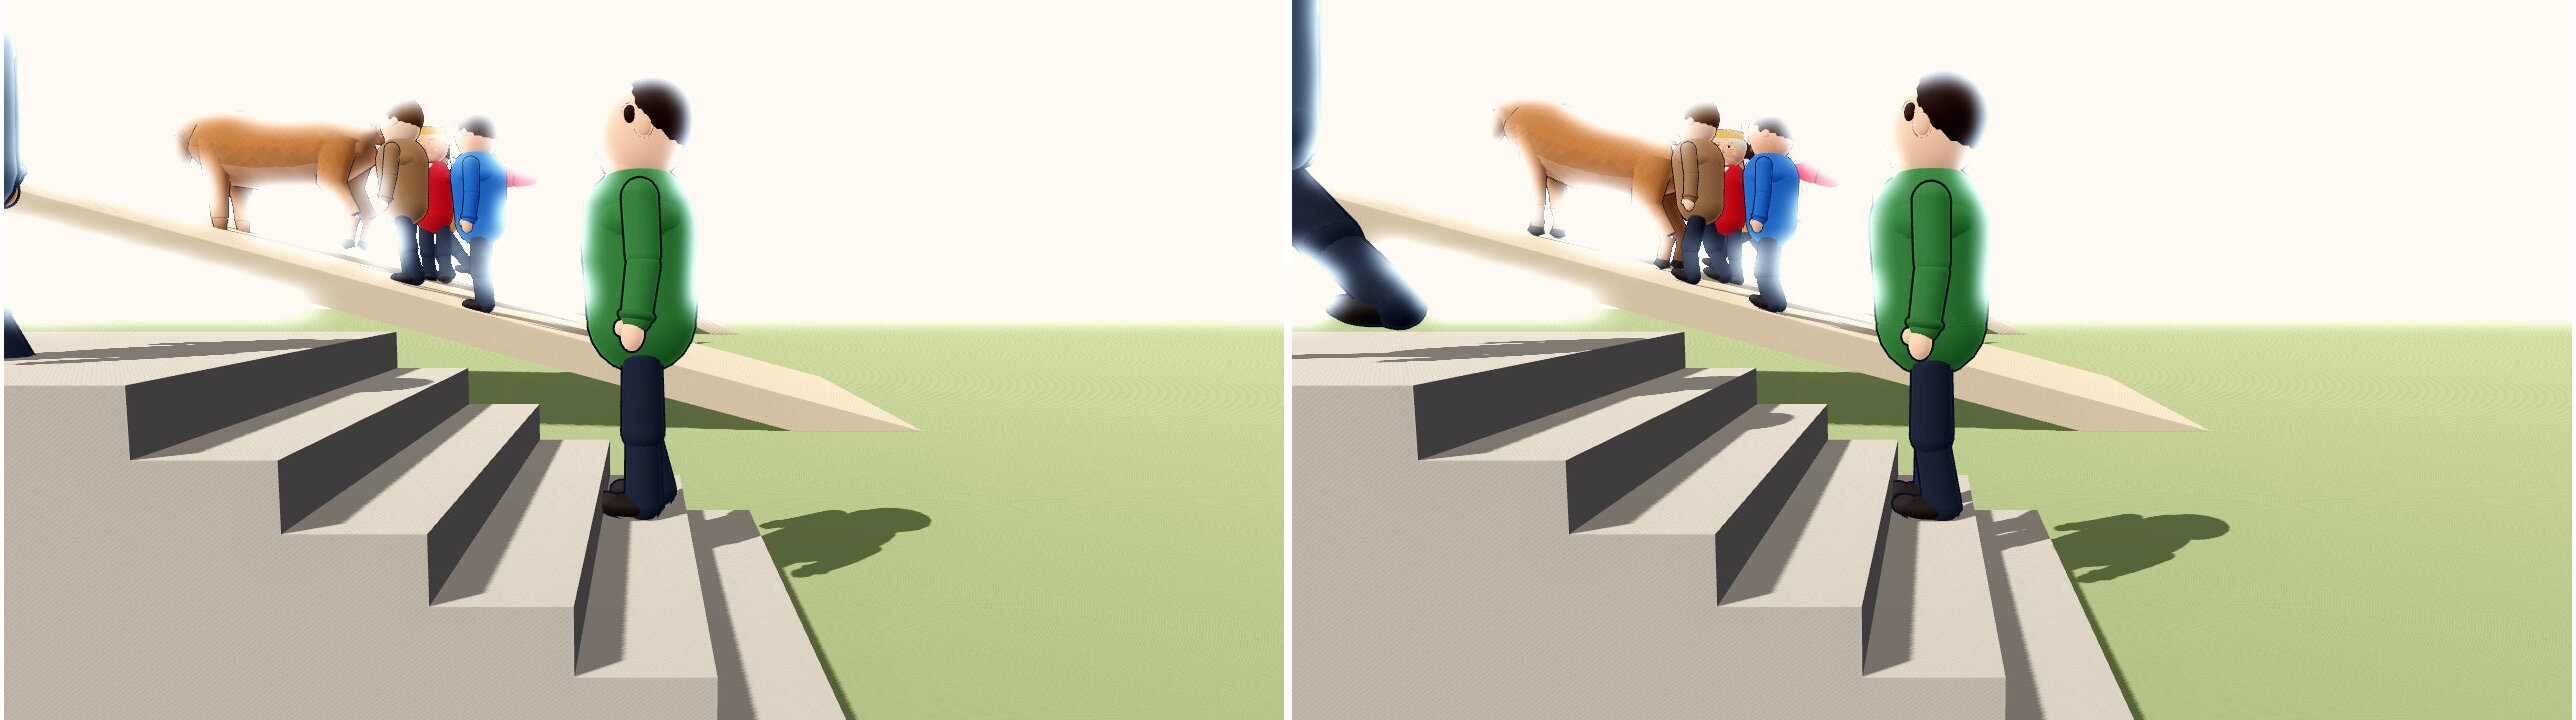
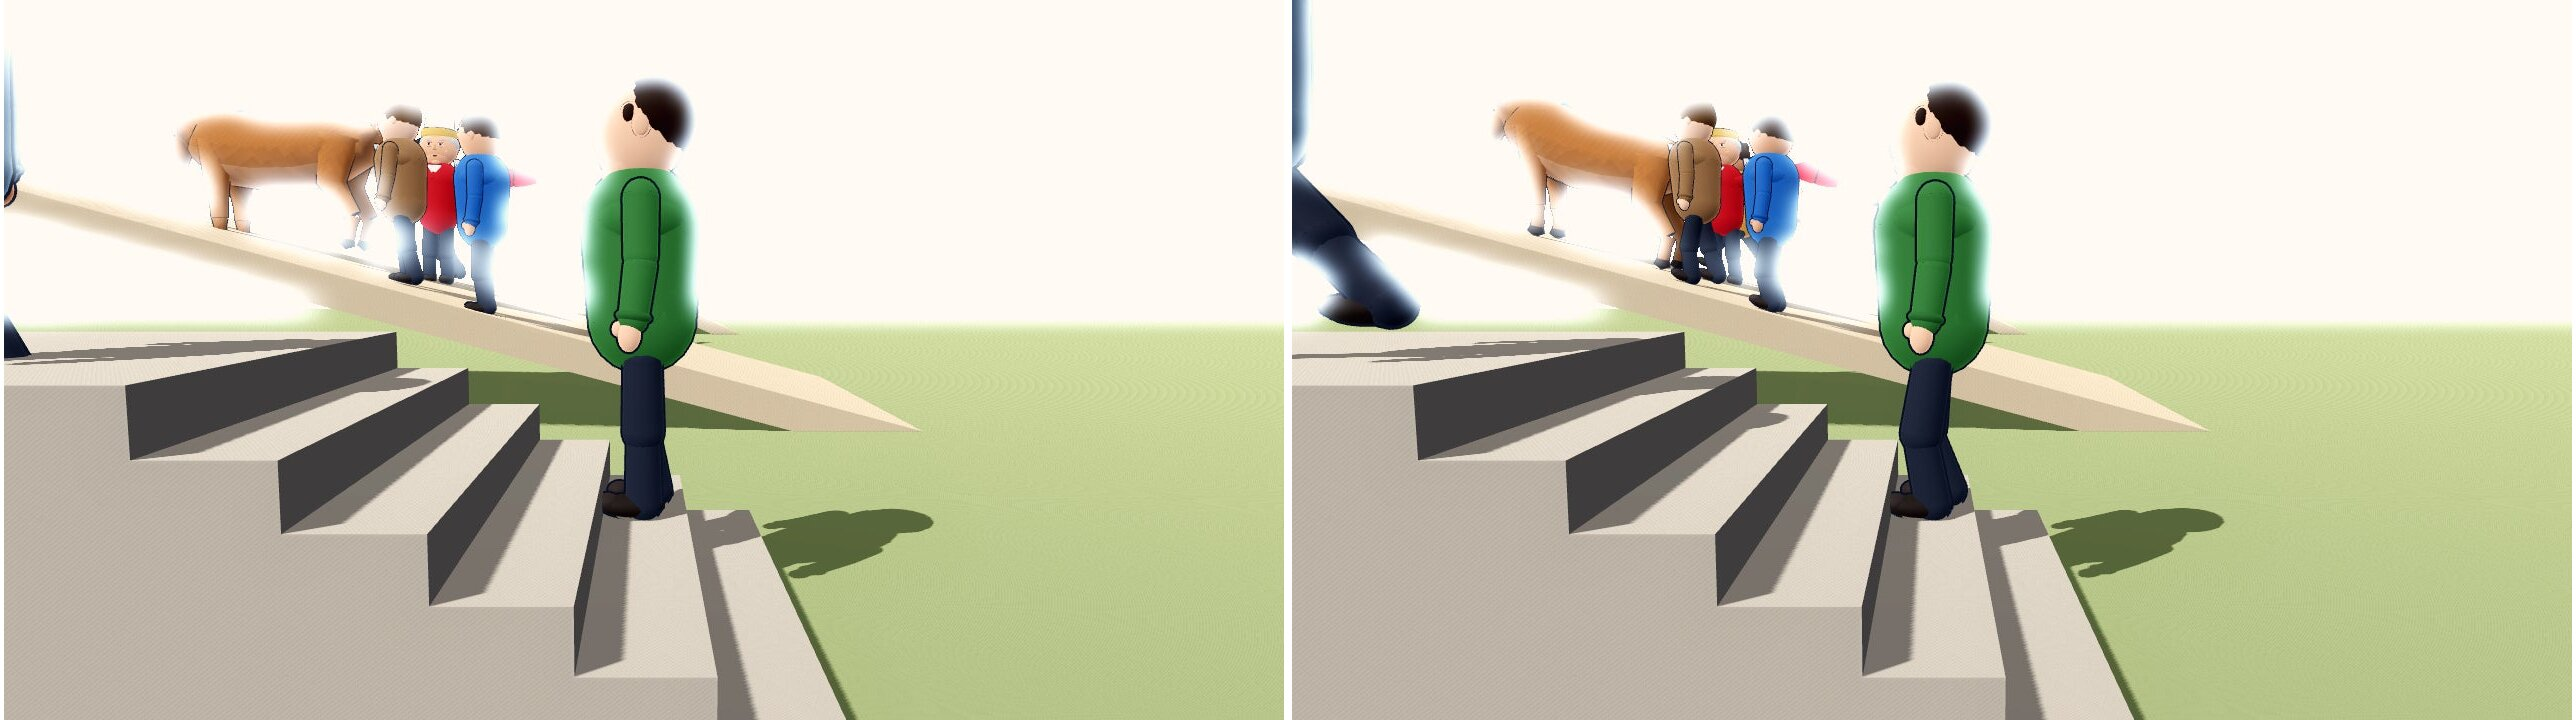
Fizik-ayak: rapor, kareler, bütçe ölçümü
Claude-Session: https://claude.ai/code/session_01RAjzxJNMyGDwMK8mKz6tyj

diff --git a/docs/_kanit_fizik_ayak/rapor.md b/docs/_kanit_fizik_ayak/rapor.md
@@ -11,9 +11,9 @@ ayağı eğik mi durur".
 | 1 | Ayak yerleştirme, bütün insanlar (IK, kalça alçak ayağa, taban eğime, gövde dik, yürürken basan ayak kilitli) | **TAMAM** | `scripts/npc/ayak.gd`; Person, Soldier, Hikmet ve LimbAnim'le oynatılan düellocu gövdesi. Yürüyüş, koşu, merdiven/basamak, rampa, moloz, sur yolu, kalas. Kadans hızdan (ayak kayması bitti). |
 | 2 | Kapsam dışı durumlar bozulmasın | **TAMAM** | Oturan, yatan/ölü, tırmanan, binen, taşınan, uçan/yüzen, DurusKit duruşları, kilitli iskelet (LimbAnim'li ayaktaki klip hariç: onun duruşunda izdüşüm), meşgul (sahne betiğinin oynattığı iş), devrilen, çarpışmasız döşemedeki: IK kapalı, duruş aynen. |
 | 3 | Hayvanlar | **TAMAM** (basit) | At, öküz, keçi: ön/arka zemin farkından gövde eğimi (≤ 17°) ve yüksekliği, bacaklar dik. Tavuk, kedi: yükseklik. Toynak başına IK yok. |
-| 4 | Bütçe (LOD, seyrek ışın, ölçüm ≤ %5) | **TAMAM** (aşağıdaki ölçüm yöntemiyle) | LOD 28 m + görüş konisi, düzde duranda yazma yok, ışın adım başına. IK otomatik testin karesinde %0,0–1,5; 60 kişilik en kötü durum (hepsi yakında, eğimde/yürüyor) gerçek zamanda %6–8 (aşağıda). |
-| 5 | AYAKAUDIT, ÖNCE\|SONRA 15+ bölüm | **KISMEN** | 20 koşu (15 istenen bölüm + ordugâh 24o + şehir 24 + 3 kalabalık çeşit). Yakın satır **87 → 5**; hedef 0'dı: kalan 5'in 3'ü IK kapsamı dışındaki meşgul iş pozu (26), 2'si dik molozda burun/topuk gömüklüğü (37o =trespass). |
-| 6 | Kanıt kareleri ÖNCE\|SONRA | **KISMEN** | Aşağıda; kimi sahnede yan kamera kalabalıkta iyi açı bulamadı (yazıldı). |
+| 4 | Bütçe (LOD, seyrek ışın, ölçüm ≤ %5) | **KISMEN** | LOD 28 m + görüş konisi, düzde duranda yazma yok, ışın adım başına. Bölümlerde IK payı kare betik süresinin %0,0–1,5'i (işlem süresi farkı koşu gürültüsü içinde: −%30…+%11); ama 68 kişinin hepsinin yakında ve eğimde olduğu deney sahnesinde **+%21** (hedef aşıldı; kişi tavanı önerildi, yapılmadı). |
+| 5 | AYAKAUDIT, ÖNCE\|SONRA 15+ bölüm | **KISMEN** | 20 koşu (15 istenen bölüm + ordugâh 24o + şehir 24 + 3 kalabalık çeşit). Yakın satır **87 → 5**; hedef 0'dı: kalan 5'in 2'si IK kapsamı dışındaki meşgul iş pozu (26 =hold), 1'i sur kenarında taban ucu (26 =hold), 2'si dik molozda burun/topuk gömüklüğü (37o =trespass). Kenar kuralı sonradan 30 → 20 cm yapıldı; 20 ve 26 yeniden: 20 → 0, 26 → 1 (asker, dik yüzde burun −0,11). |
+| 6 | Kanıt kareleri ÖNCE\|SONRA | **KISMEN** | 37o an_04, 20 gedik, 22o dolgu/kıyı, şehir, ordugâh oyun içinden; yan profil, merdiven, basamak, at deney sahnesinden (oyun içinde bu koşularda kameraya düşmedi ya da gizliydi). 20'nin yan karesi kenar düzeltmesinden önceki sürümle (kötü; düzeltildi, yeniden çekilemedi). |
 
 ## Yöntem (kısa)
 - **IK**: iki kemikli (uyluk L1, baldır L2 CharKit.leg'den; diz kosinüs yasası, uyluk FK düzlemini koruyan en kısa dönüş).
@@ -93,13 +93,29 @@ ve bunun SONRA işlem süresine oranı (`--ayak-olc`, `AYAKPERF` satırları).
 **Gerçek zamanlı en kötü durum** (deney sahnesi `tests/_fizik/ayak_sahne.tscn --ayak-kalabalik=60`, ekransız, kare
 sınırı yok; 60 kişi + 9 denek hepsi kameranın 25 m içinde ve görüşte, yarısı yürüyor, çoğu eğimde/molozda):
 
-TABLO3
+| Koşu | işlem ms/kare (10 sn ortalamaları) | IK µs/kare | IK'lı kişi | ışın/kare |
+|---|---|---|---|---|
+| ÖNCE (`--ayak-ik=0`) | 17,0 · 13,6 · 16,3 (ort. 15,7) | 0 | 0 | 0 |
+| SONRA | 20,1 · 18,8 · 18,1 (ort. 19,0) | 1638 · 1701 · 1496 | 68 | 3,1–3,7 |
+
+En kötü durumda betik süresi **+%21** (IK'nın kendi payı %8,6; kalanı yeni yazılan dönüşümlerin alt ağaçta yayılması):
+**%5 hedefini aşıyor** — 68 kişinin hepsi aynı anda 25 m içinde, görüşte ve eğimde/yürürken. Bölümlerde (yukarıdaki
+tablo) aynı anda IK'lı kişi 1–25 ve IK payı %0,0–1,5. Öneri (yapılmadı): kare başına IK'lı kişi tavanı (en yakın ~24;
+12 m içindekiler hep).
 
 Kişi başı IK ~21 µs/kare (iki bacak + kalça + taban; ışınsız), ışın ~30–60 µs (sahnenin karmaşıklığına göre) ama kişi
 başı saniyede ~1–5. Düz zeminde duran kişide IK hiçbir şey yazmaz. Çizim çağrısı ve üçgen değişmez (yalnız mevcut
 düğümlerin dönüşümü değişir; yeni ağ yok) — 37o `=kare` bütçe satırları (TASIMA37OKARE çizim/ilkel) ÖNCE|SONRA aşağıda.
 
-TABLO4
+| Kare | ÖNCE çizim / ilkel | SONRA çizim / ilkel |
+|---|---|---|
+| 37o an_01 yürüyüş | 1190 / 1 268 342 | 1204 / 1 277 856 |
+| 37o an_04 barikat | 1028 / 1 417 962 | 1030 / 1 408 861 |
+| 37o an_06 geri bakış | 1342 / 1 436 544 | 1282 / 1 393 224 |
+| 22o an_01 açılış | 3474 / 3 361 310 | 3468 / 3 353 058 |
+| 22o an_03 dolgu ucu | 2900 / 2 776 141 | 2896 / 2 769 167 |
+
+(Farklar ±%5 içinde ve iki yönde: koşudan koşuya kişilerin yeri/LOD'u; yeni ağ eklenmedi.)
 
 ## Kareler (oyuncu kamerası + yandan; 1280×720, jpg 85) — [`kare/`](kare/)
 
@@ -109,15 +125,26 @@ TABLO4
 | [`sahne_yokus25_dik`](kare/sahne_yokus25_dik_once_sonra.jpg) | **Yan profilden yakın kişi, 25° yanal eğim** | Yokuş yukarı bacağın dizi bükük, öteki düz; iki taban yamaçta, gövde dik: doğal. |
 | [`sahne_yokus_dik`](kare/sahne_yokus_dik_once_sonra.jpg) | 15° yanal eğim | Fark küçük (ayaklar 0,2 m arayla: 5 cm); iki taban yamaçta. |
 | [`sahne_moloz_asker`](kare/sahne_moloz_asker_once_sonra.jpg) | Molozda asker | ÖNCE sol ayak taşın üstünde havada; SONRA sol diz bükük, taban taşa basıyor, sağ ayak alttaki taşta: doğal. |
-| [`sahne_merdiven_dur`](kare/sahne_merdiven_dur_once_sonra.jpg) | Basamak kenarında duran | İki ayak basamakta; kenardaki ayak kökün altına çekili: iyi. |
-| [`sahne_merdiven_yuru_1`](kare/sahne_merdiven_yuru_1_once_sonra.jpg) | Merdiven çıkan | Basan ayak basamakta kilitli, salınan ayak bir üst basamağa yay çiziyor; kayma yok: iyi (kök doğrusal yolda: basamak kenarında kalça biraz iniyor). |
+| [`sahne_merdiven_dur`](kare/sahne_merdiven_dur_once_sonra.jpg) | Basamak kenarında duran | İki ayak basamaklarda (biri bir alttakinde, dizi bükük): iyi. |
+| [`sahne_merdiven_yuru_1`](kare/sahne_merdiven_yuru_1_once_sonra.jpg) | Merdiven çıkan | Kadraj kötü (öndeki duran kişi örtüyor); görünen kısımda çıkan kişinin ayağı basamakta: **kabul**. |
 | [`sahne_yokus_yuru_1`](kare/sahne_yokus_yuru_1_once_sonra.jpg) | Yokuş yukarı yürüyen | Basan ayak yamaçta kilitli, adım boyu hızla uyumlu, gövde dik: doğal. |
-| [`sahne_yokus_kos_1`](kare/sahne_yokus_kos_1_once_sonra.jpg) | Yokuş aşağı koşan | Koşu adımı (arka bacak geride bükük, ön ayak yamaçta); ÖNCE iki ayak kök düzleminde (yamacın içinde/üstünde): iyi. |
+| [`sahne_yokus_kos_1`](kare/sahne_yokus_kos_1_once_sonra.jpg) | Yokuş aşağı koşan | İki ayak yamaçta, adım kısa (bu karede koşu adımının ortası); ÖNCE geniş adımda ayaklar yamacın içinde/üstünde: iyi. |
 | [`sahne_at_yokus`](kare/sahne_at_yokus_once_sonra.jpg) | **At eğimde** (25°) | Gövde yokuşa göre eğik (sınır 17°), dört toynak yamaçta, bacaklar dik: iyi; 17°'yi aşan kısım ön bacaklarda birkaç cm gömük. |
 | [`sahne_okuz_yokus`](kare/sahne_okuz_yokus_once_sonra.jpg) | Öküz eğimde (15°) | Gövde eğik, toynaklar yamaçta: iyi. |
 
 ### Oyun içi (oyuncu kamerası; sol ÖNCE, sağ SONRA)
-KARELER
+| Kare | Sahne | SONRA (tek cümle) |
+|---|---|---|
+| [`c37o_an04_barikat`](kare/c37o_an04_barikat_once_sonra.jpg) | **37o an_04, sahibinin karesi** (oyuncu kamerası) | Soldaki askerin bacakları rampanın kenarının ardındaki alçak molozuna iniyor (dizler bükük, ÖNCE düz bacakla rampa hizasında havadaydı); taban bu açıdan rampanın kenarının arkasında kaldığından tabanın kendisi görünmüyor — havada görünmüyor, ama "ayak yerde" diye de görülmüyor: **kabul**. |
+| [`c37o_an04_barikat_yan`](kare/c37o_an04_barikat_yan_once_sonra.jpg) | 37o an_04, aynı anda yandan (arkadan-üstten; kamera duvar yüzünden profil bulamadı) | Rampa yamacındaki askerin bir dizi bükük, ayakları yamaca yakın; açı arkadan-üstten olduğundan tabanın yamaca değip değmediği kesin seçilmiyor (denetim bu kişide 0) — **belirsiz**; kayma tek karede görülmez. |
+| [`c20_an03_gedige_tasima`](kare/c20_an03_gedige_tasima_once_sonra.jpg) | **Bölüm 20, gediğe yürüyen işçiler** | İşçiler kaldırımda adım atıyor, basan ayaklar taşta; düz zeminde fark adım boyunda (ÖNCE ayaklar kayıyordu): iyi. |
+| [`c20_an03_gedige_tasima_yan`](kare/c20_an03_gedige_tasima_yan_once_sonra.jpg) | 20, platform kenarındaki işçi (yandan) | Bu kare kenar kuralından ÖNCEki sürümle: işçi bir ayağını alttaki toprağa uzatıp iki dizi derin bükük, çömelmiş gibi — **kötü**; düzeltildi (kenar 20 cm: o ayak platformun üstüne çekilir), son kodla yeniden çekilemedi (süre). |
+| [`c22o_an03_dolgu_uc_sepet`](kare/c22o_an03_dolgu_uc_sepet_once_sonra.jpg) / [`_yan`](kare/c22o_an03_dolgu_uc_sepet_yan_once_sonra.jpg) | **Bölüm 22o sur yolu/dolgu ucu ve rampa** | Dolgunun tahta ucunda duran işçinin tabanları tahtada, ÖNCE ile fark küçük (zemin farkı 10 cm): iyi. |
+| [`c22o_an02_kiyi_sepet`](kare/c22o_an02_kiyi_sepet_once_sonra.jpg) / [`_yan`](kare/c22o_an02_kiyi_sepet_yan_once_sonra.jpg) | 22o kıyı yamacı (çamur, cesetler) | Yürüyen işçinin basan ayağı yamaçta, öteki salınımda; ÖNCE ile çok benzer: iyi. |
+| [`c24_t80`](kare/c24_t80_once_sonra.jpg) / [`_yan`](kare/c24_t80_yan_once_sonra.jpg) | **Şehir (24)**, kalabalık sokak | Kaldırım düz: duranlarda IK yazmıyor (düz zemin), görünüş ÖNCE ile aynı; şehirde basamak/eğimde bir kişi bu koşuda kameraya düşmedi — **eksik** (basamak örneği deney sahnesinde). |
+| [`c24o_t45`](kare/c24o_t45_once_sonra.jpg) | **Ordugâh (24o)** | Kameradaki asker düz çadır yolunda: IK yazmıyor, ÖNCE ile aynı; yan kare bir arabanın arkasında kaldı (atıldı); ordugâhta eğimde bir kişi bu koşuda kameraya düşmedi — **eksik** (eğim örneği deney sahnesinde ve 37o/22o'da). |
+| — | **At eğimde (oyun içi, 28o)** | Koşunun ilk 26 saniyesinde atlar gizli (kare alınamadı) — **eksik**; at eğimde kanıtı deney sahnesinden (aşağıda `sahne_at_yokus`). |
+| — | **Merdiven çıkan** | Oyun içinde kameraya düşmedi; deney sahnesinde `sahne_merdiven_yuru_1`. |
 
 ## Hayvanlar
 Deney sahnesinde 25° yokuşta at ve 15° yokuşta öküz: ÖNCE gövde yatay, arka toynaklar havada/ön toynaklar gömük;

diff --git a/docs/_kanit_fizik_ayak/durum.md b/docs/_kanit_fizik_ayak/durum.md
@@ -1,11 +1,11 @@
 # Fizik-ayak: durum
 
 - [x] Dal `wip/fizik-ayak` (taban `wip/ist2-birlesik` 5203a40e)
-- [x] `scripts/npc/ayak.gd`: ayak yerleştirme (iki kemikli IK, kalça alçak ayağa iner, taban eğime döner, yürürken basan ayak kilitli, LOD 28 m + görüş konisi, düzde duranda yazma yok, görünen-çarpışmasız zeminde kapalı)
-- [x] `scripts/npc/ayak_denet.gd`: AYAKAUDIT (ik durumu satırda)
-- [x] Rig/LimbAnim kancaları; yeni kadans (adım boyu hızdan)
-- [x] `tests/_fizik/ayak_sahne.tscn` deney sahnesi (eğim/basamak/moloz/koşu/at; `--ayak-kalabalik=60` bütçe)
-- [x] 18 koşu ÖNCE|SONRA (ara sürüm): SONRA yakın satır 0, hepsi PASS
-- [x] Son kodla ÖNCE|SONRA tablosu (20 koşu: yakın 87 → 5, hepsi PASS)
-- [x] Hayvanlar (ayak_hayvan.gd)
-- [ ] Oyun içi kareler (çekiliyor), rapor taslağı yazıldı
+- [x] `scripts/npc/ayak.gd`: ayak yerleştirme (iki kemikli IK, kalça, taban eğimi, yürürken kilit, LOD 28 m + koni, düzde yazma yok, kenar kuralı)
+- [x] `scripts/npc/ayak_denet.gd`: AYAKAUDIT (taban üç noktada)
+- [x] `scripts/npc/ayak_hayvan.gd`: at, öküz, keçi, tavuk, kedi
+- [x] Rig/LimbAnim kancaları; yeni kadans
+- [x] 20 koşu ÖNCE|SONRA (yakın 87 → 5, hepsi PASS), kare süresi tabloları, deney sahnesi bütçesi (+%21 en kötü durum: hedef aşıldı)
+- [x] Kareler: oyun içi (37o, 20, 22o, 24, 24o) + deney sahnesi
+- [x] Rapor: `rapor.md`, yöntem: `yontem.md`
+- Kalan (rapor "hâlâ kötü"): meşgul iş pozları, dik moloz yüzü, kişi tavanı, oyun içi at/merdiven karesi
